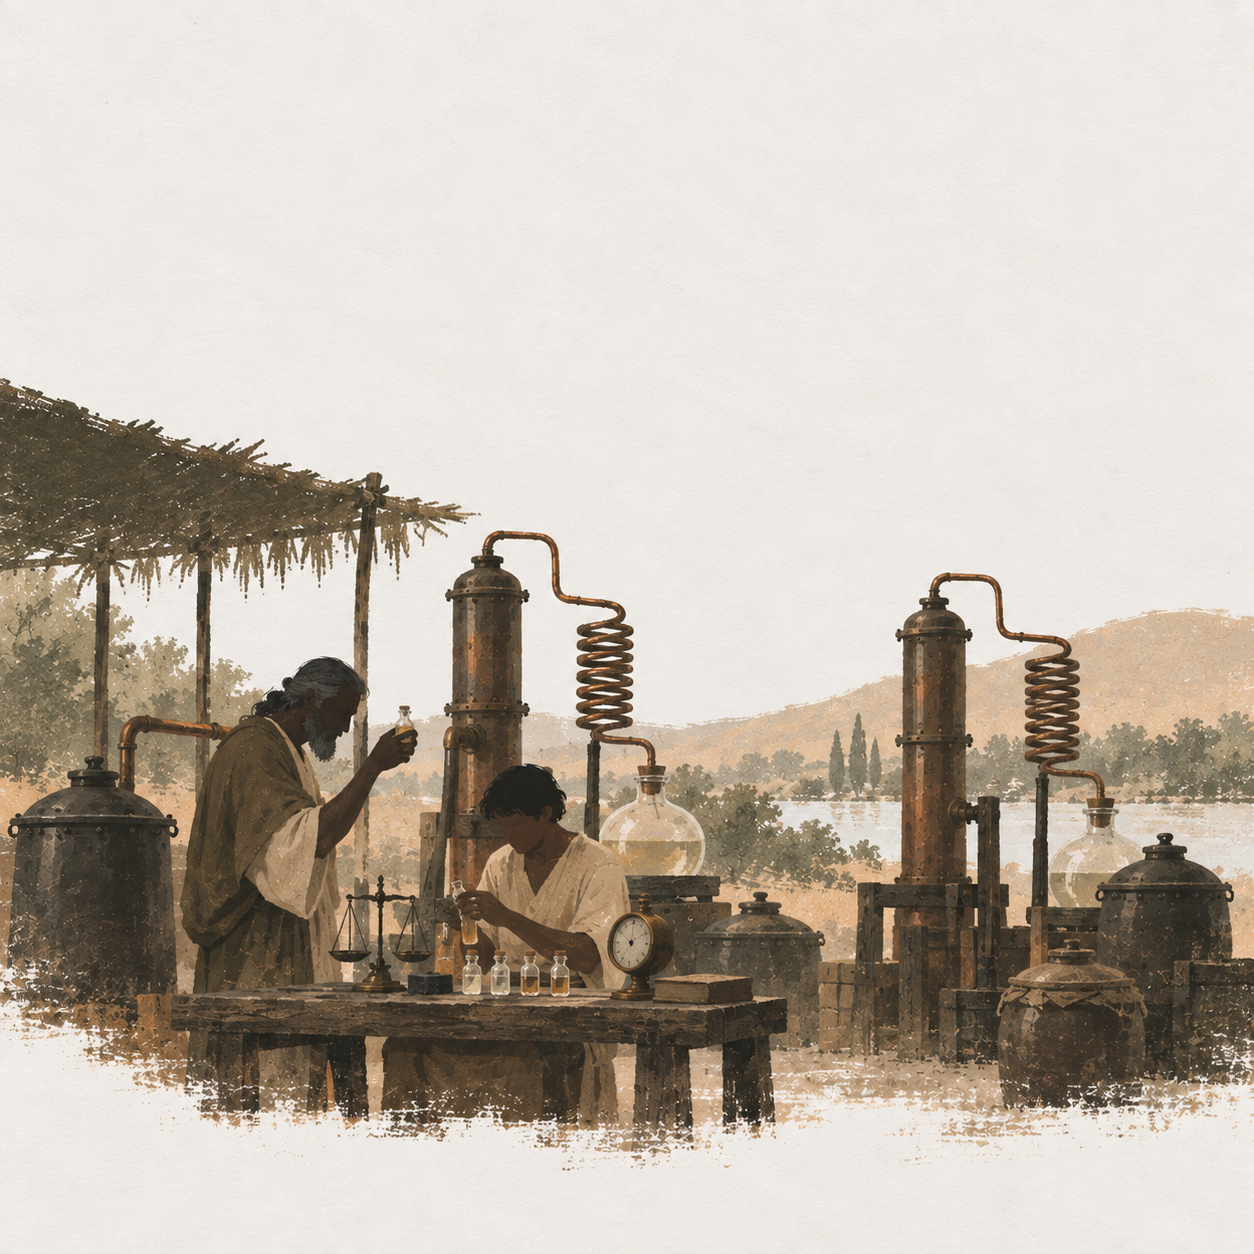
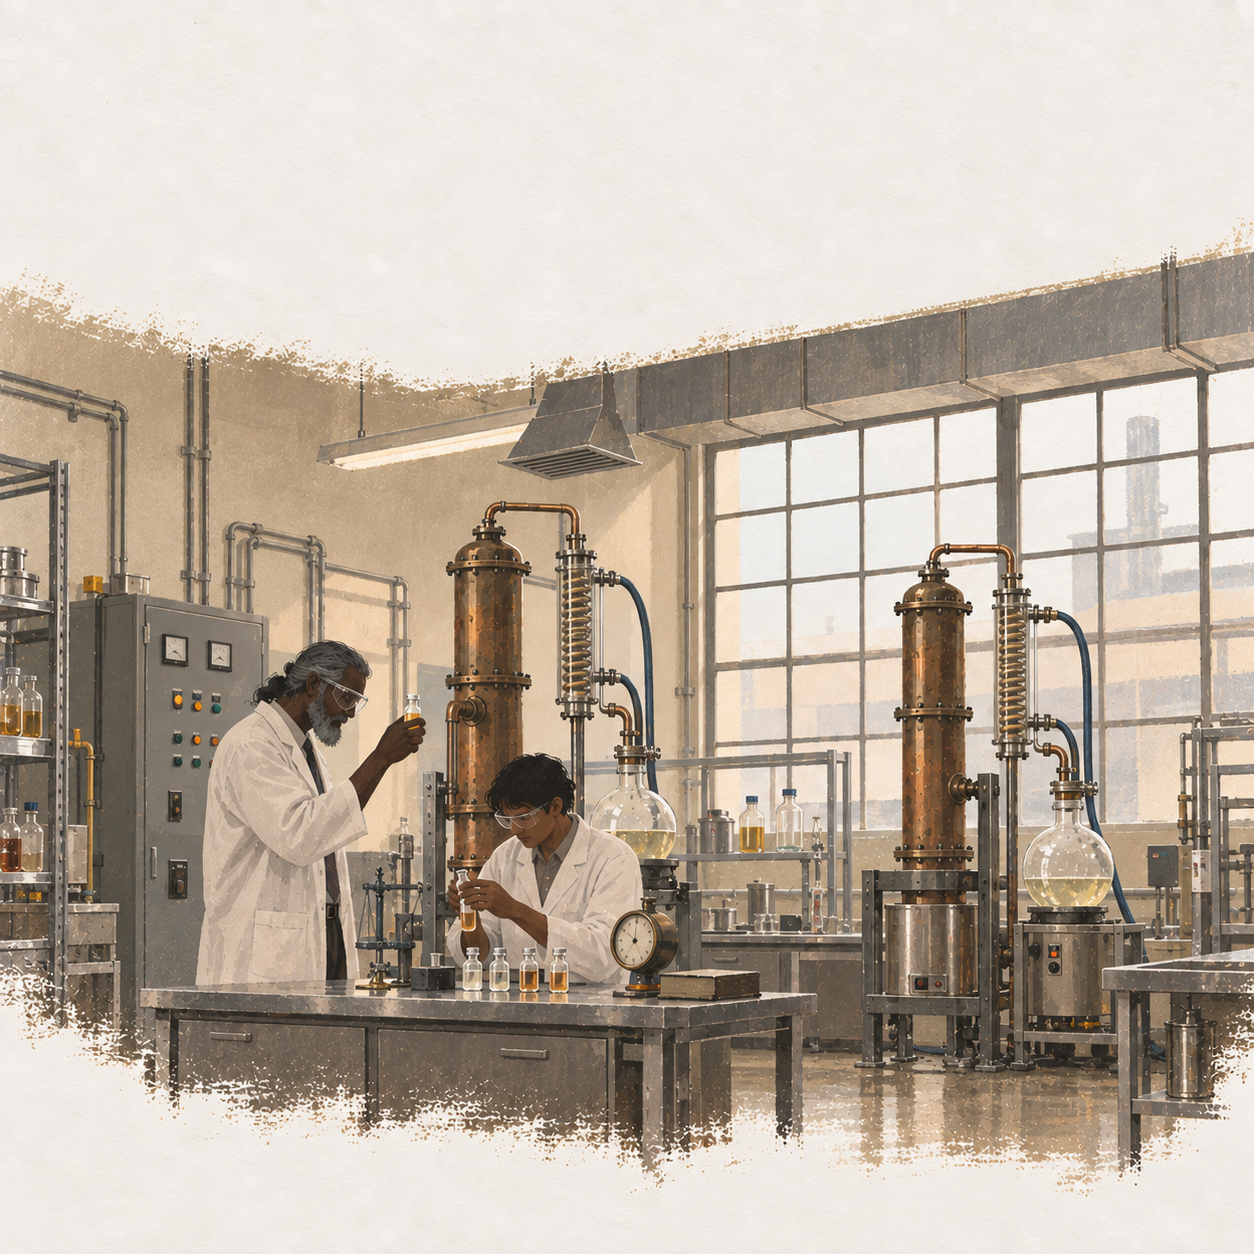
Match polymer labs and grinding workshop to industrial era

diff --git a/assets/ui/research/paper/INDUSTRIAL_ERA_CORRECTIONS.md b/assets/ui/research/paper/INDUSTRIAL_ERA_CORRECTIONS.md
@@ -33,3 +33,45 @@ Native: `/Users/seanpurtill/.codex/generated_images/01a0978a-39f5-7620-a77f-5918
 Exact edit prompt:
 
 Edit this machine stiffness discovery illustration into an early twentieth-century engineering metrology laboratory interior. Replace thatched shelter, rural hills, trees, dirt and ancient robes with masonry factory walls, tall glazed windows, clean level floor, fitted work shirts and trousers with closed work shoes. Preserve experiment: rigid machine-tool slide on stout engineering bench, dial indicator on independent support touching slide, measured weights applying load through fixture to slide so deflection can be measured. Use secure compact steel loading frame instead of rustic wooden crane; operator keeps clear of suspended weights. Two technicians compare indicator before and after loading. No ancient village scenery. Keep square warm ivory fibrous paper, matte gouache dry brush, restrained umber/ochre/olive/steel gray, equipment in lower half, broad quiet upper paper and soft unfinished edges. No readable text or watermark.
+
+
+## polymer_chain_models
+
+Native: `/Users/seanpurtill/.codex/generated_images/01a0978a-39f5-7620-a77f-5918ccb1d8ba/exec-512af1d0-6c6e-4ccd-b9ad-fb7ef94a4ad3.png`
+
+Exact edit prompt:
+
+Edit this polymer science illustration into a coherent mid-twentieth-century chemistry teaching laboratory INTERIOR. Remove thatched roof, ancient robes, hills and outdoor setting. Two scientists wear plain white laboratory coats over shirts and trousers, beside a proper smooth laboratory bench with drawers; glazed windows, plaster walls, specimen cabinets and electrical lighting imply a twentieth-century research building. Preserve tabletop three distinct physical bead-and-stick models: linear, branched and connected network, and solid polymer sample strips with one being flexed. Replace pottery stationery holders with simple lab glassware and instrument storage. Keep square matte gouache on warm ivory fibrous paper, restrained ochre/umber/olive, quiet broad paper above, lower-half activity and dry-brush vignette edges. No readable text, formula, watermark or floating molecules. Buildings and dress must match modern polymer science.
+
+## polymer_melt_rheology
+
+Native: `/Users/seanpurtill/.codex/generated_images/01a0978a-39f5-7620-a77f-5918ccb1d8ba/exec-2f7d5d66-482e-4446-89b3-99b0fc69e143.png`
+
+Exact edit prompt:
+
+Edit this polymer rheology image into a coherent mid-twentieth-century polymer laboratory INTERIOR. Scientists wear white laboratory coats over shirts and trousers, safety spectacles; remove ancient tunics, pottery containers and rustic furnace. Smooth laboratory bench, glazed windows, plaster walls, metal cabinets, electric task light and power connections. Preserve recognizable weight-driven piston in electrically heated vertical metal capillary rheometer, short polymer strand extruding downward onto metal collection dish, adjacent analytical balance and cooled sample strands being compared. Small electrically controlled heated barrel, no open flame or medieval forge. Keep square illustration, matte gouache drybrush on warm ivory fibrous paper, restrained ochre/umber/olive and gray, broad quiet upper paper, grounded lower-half vignette, no text or watermark.
+
+## cylindrical_grinding
+
+Native: `/Users/seanpurtill/.codex/generated_images/01a0978a-39f5-7620-a77f-5918ccb1d8ba/exec-1031e738-f8ba-4c75-9598-62c3f9da191b.png`
+
+Exact edit prompt:
+
+Edit only the environment and worker details of this cylindrical grinder discovery illustration into a coherent mid-twentieth-century precision machine shop interior. Replace outdoor hills, vegetation and timber shelter with factory masonry walls, tall glazed windows, steel roof supports fading into paper, level concrete floor, proper metal parts rack. Worker wears fitted work shirt/trousers, closed shoes and safety spectacles. Preserve the ENTIRE MACHINE GEOMETRY: horizontal uninterrupted steel shaft between headstock and tailstock pointed centers, separate fully guarded olive grinding-wheel head behind the shaft retracted for setup, no wheel intersecting shaft, electric drive, handwheel and coolant nozzle. Keep square spare matte gouache drybrush on warm ivory fibrous paper, muted ochre/umber/olive/steel gray, broad quiet paper above and soft vignette edges. No text or watermark. No rural or ancient scenery.
+
+
+## polymer_monomer_purification
+
+Native: `/Users/seanpurtill/.codex/generated_images/01a0978a-39f5-7620-a77f-5918ccb1d8ba/exec-0586fa40-8767-46a9-bff7-9bc46ed87087.png`
+
+Exact edit prompt:
+
+Edit this polymer monomer purification scene to a coherent mid-twentieth-century chemical pilot-plant laboratory INTERIOR. Remove all thatched roofs, rural landscape, ancient robes, pottery jars and crude outdoor bench. Two technicians wear lab coats over shirts/trousers and safety spectacles. Metal laboratory benches, level sealed concrete floor, industrial glazed windows, metal racks, ventilation duct and electrical cabinets. Preserve the two vertical fractional distillation columns with connected condensers and closed receivers, sampled sealed vials and balance; condenser coils enclosed in proper water-cooling jackets with supply/return hoses, contained heating, no open flame. Keep apparatus readable and modest in scale. Square matte gouache on warm ivory textured paper, restrained ochre/umber/olive/steel gray, broad quiet upper space, softly unfinished lower-half scene, no lettering or watermark. Architecture and clothing must match industrial chemistry.
+
+## polymer_reaction_heat_management
+
+Native: `/Users/seanpurtill/.codex/generated_images/01a0978a-39f5-7620-a77f-5918ccb1d8ba/exec-e139817f-d52b-448a-9707-8b5909151371.png`
+
+Exact edit prompt:
+
+Edit this reactor heat-management discovery scene into a coherent mid-twentieth-century chemical pilot-plant interior. Remove ancient robes, thatched shelter, hills, trees, earthen pots and dirt floor. Technicians in fitted industrial coveralls, closed shoes and safety spectacles operate from beside the apparatus. Industrial glazed windows, masonry walls, metal service piping, electric control cabinet, level concrete floor with containment curb. Preserve central closed stirred jacketed metal reactor with motor and gauges, connected heat exchanger, pump and finite cooling-water reservoir with visible supply/return plumbing. All equipment mounted on proper steel supports. Clear cooling circuit, no open reactor, no flames. Preserve square matte gouache drybrush on warm ivory fibrous paper, subdued ochre/umber/olive/steel gray, broad quiet upper paper, small lower-half scene and soft vignette edges. No text or watermark. Show a real industrial working environment matching this reactor technology.

diff --git a/assets/ui/research/paper/ABRASIVE_DISCOVERY_PROMPTS.md b/assets/ui/research/paper/ABRASIVE_DISCOVERY_PROMPTS.md
@@ -31,3 +31,6 @@ Use case: historical-scene. Asset type: square discovery-card illustration for T
 Native source: `/Users/seanpurtill/.codex/generated_images/01a0978a-39f5-7620-a77f-5918ccb1d8ba/exec-c7235c22-8a38-4eac-a04a-82a8109cf662.png`
 
 Use case: historical-scene. Asset type: square discovery-card illustration for Tomorrow and Tomorrow. Input is a STYLE REFERENCE ONLY; make a new distinct scene. Sparse gouache on warm ivory fibrous paper, matte dry brush texture, restrained ochre/umber/olive palette, believable small human figures and equipment concentrated in lower half, broad quiet paper above, soft unfinished vignette edges. No frame, lettering, readable text, watermark, glossy photorealism or floating diagrams. Subject: A modest industrial workshop with a narrow dry abrasive belt running over two aligned pulleys on a guarded stand, a small formed sheet-steel motor housing supported on a rest while a worker lightly deburrs one edge against the belt. Nearby are spare cloth-backed abrasive belt loops and one unworked housing. Fine dry dust caught in a shallow tray, no coolant on this hide-glue bonded dry-service belt, no heavy stock removal or shower of sparks. Hands clear of belt contact, no lettering.
+
+
+Selected original images superseded for historical setting: see [Industrial era corrections](INDUSTRIAL_ERA_CORRECTIONS.md).

diff --git a/assets/ui/research/paper/POLYMER_CORE_PROMPTS.md b/assets/ui/research/paper/POLYMER_CORE_PROMPTS.md
@@ -23,3 +23,6 @@ Original: /Users/seanpurtill/.codex/generated_images/01a0978a-39f5-7620-a77f-591
 Prompt: Use case: historical-scene. Asset type: square discovery-card illustration for Tomorrow and Tomorrow. Input is a STYLE REFERENCE ONLY; make a new distinct scene. Sparse gouache on warm ivory fibrous paper, matte dry brush texture, restrained ochre/umber/olive palette, believable small human figures and equipment concentrated in lower half, broad quiet paper above, soft unfinished vignette edges. No frame, lettering, readable text, watermark, glossy photorealism or floating diagrams. Subject: A compact early industrial polymer laboratory with a closed pressure reaction vessel, small metering pump connected from a sealed reagent receiver, and an overhead stirrer drive. Two researchers inspect a translucent solid polymer strip and a little weighed sealed reagent bottle on a side table. Modest restrained industrial scene suggesting controlled initiated chain reaction, no floating molecules, formulas, flame or open vat.
 
 Validation: Godot 4.7.2 headless import completed without errors. All five direct texture loads pass at 768 × 768 with mipmaps. Runtime bindings remain with the polymer worker.
+
+
+Selected original images superseded for historical setting: see [Industrial era corrections](INDUSTRIAL_ERA_CORRECTIONS.md).
